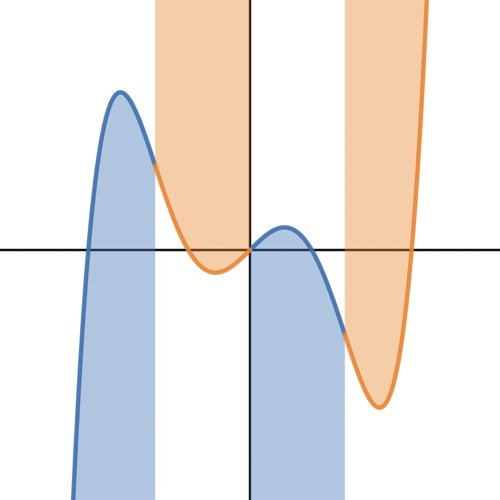
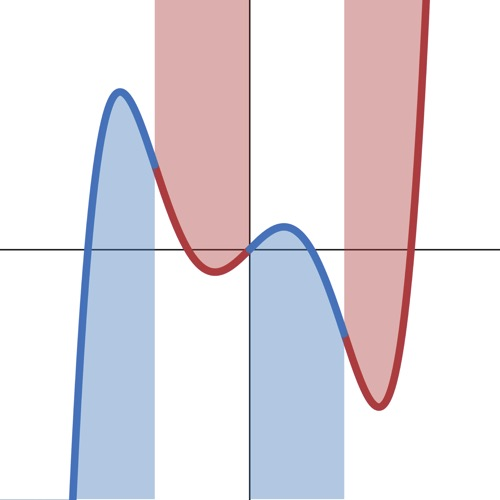
Updated 251

Changed region(s): [[0.0, 0.0, 1.0, 1.0]]

diff --git a/teaching/uo/251/notes/11-optimization/index.html b/teaching/uo/251/notes/11-optimization/index.html
@@ -50,7 +50,7 @@
 
 !begin-text-block
 	
-	!iframe https://www.desmos.com/calculator/qwyqv9xbdk
+	!desmos extrema
 	
 	Let&#x2019;s examine this graph. There are three ways local extrema occur here: first, at places like $x = \pm .345$, where the derivative is zero and the tangent line to the graph is therefore horizontal. This is the same idea as the midterm problem about height being maximized when velocity is zero.
 	
@@ -86,7 +86,7 @@
 	
 	All local extrema occur at critical points, but not all critical points are extrema. For example, $g(x) = x^3$ has $g'(x) = 3x^2$, so $x = 0$ is a critical point, but that is neither a local maximum nor minimum of $g$: instead, it&#x2019;s something called a <dfn>saddle point</dfn>.
 	
-	!iframe https://www.desmos.com/calculator/k1jbfqaooy
+	!desmos saddle-point
 	
 !end-text-block
 
@@ -96,7 +96,7 @@
 	
 	critical points
 	
-	Find the critical points of $f(x) = x^5 - 3x^3 + x$ on $[-2, 1.5]$.
+	Find the critical points of $\displaystyle f(x) = x^5 - 3x^3 + x$ on $\displaystyle [-2, 1.5]$.
 	
 	Let&#x2019;s start by differentiating: $f'(x) = 5x^4 - 9x^2 + 1$. The first kind of critical point is when $f'(x) = 0$, so let&#x2019;s solve that equation. It might have been a little while since you&#x2019;ve solved something quite like this, but the idea is that when there are no $x^3$ or $x$ terms, we can use the quadratic formula on $x^2$:
 	
@@ -113,21 +113,21 @@
 	
 	At the moment, we don&#x2019;t have a way of differentiating maxima from minima from saddle points. Let&#x2019;s look at all the critical values and select the largest and smallest &mdash; these are good candidates for the global max and min.
 	
-	$f(-2) = -10$
+	$\displaystyle f(-2) = -10$
 	
-	$f(-1.297) = 1.578$
+	$\displaystyle f(-1.297) = 1.578$
 	
-	$f(-.345) = -.227$
+	$\displaystyle f(-.345) = -.227$
 	
-	$f(.345) = .227$
+	$\displaystyle f(.345) = .227$
 	
-	$f(1.297) = -1.578$
+	$\displaystyle f(1.297) = -1.578$
 	
-	$f(1.5) = 1.031$.
+	$\displaystyle f(1.5) = 1.031$.
 	
 	Assuming the function has a global max and min, the max is at $x = -1.297$ and the min is at $x = -2$. Looking at the graph backs this up.
 	
-	!iframe https://www.desmos.com/calculator/h7feo4eowi
+	!desmos critical-points
 	
 !end-example
 
@@ -180,11 +180,11 @@
 	
 	This is a fine start, but we really ought to know whether critical points are local minima, maxima, or saddle points. The way we&#x2019;ll get at this is via the second derivative: in the same way that the first derivative measures slope, the second one measures something called <dfn>concavity</dfn>. Remember that $f''(x)$ is just the derivative &mdash; and therefore the rate of change &mdash; of $f'(x)$. If $f''(x) > 0$, then the slope is increasing, and if $f''(x) < 0$, the slope is decreasing. Visually, this looks like the curve of the graph opening upward or downward.
 	
-	!iframe https://www.desmos.com/calculator/gauzdhyayv
+	!desmos concavity
 	
-	Here, the orange parts of the graph are <dfn>concave up</dfn>, and the blue are <dfn>concave down</dfn>, corresponding to the places where $f''(x)$ is positive and negative, respectively.
+	Here, the red parts of the graph are <dfn>concave up</dfn>, and the blue are <dfn>concave down</dfn>, corresponding to the places where $f''(x)$ is positive and negative, respectively. Click the empty circle next to $f''(x)$ in the Desmos shelf to plot it.
 	
-	Suppose $x = a$ is the type of critical point with $f'(a) = 0$. If $f''(a) < 0$, then the graph is concave down &mdash; in other words, it&#x2019;s curving down, so $x = a$ must be a local maximum. If $f''(a) > 0$, then $x = a$ must be a local minimum. If $f''(a) = 0$, we don&#x2019;t know for sure what&#x2019;s going on, but still, this process is very useful for classifying critical . This is called the <dfn>second derivative test</dfn>, and it lets us classify most extrema.
+	Suppose $x = a$ is the type of critical point with $f'(a) = 0$. If $f''(a) < 0$, then the graph is concave down &mdash; in other words, it&#x2019;s curving down, so $x = a$ must be a local maximum. If $f''(a) > 0$, then $x = a$ must be a local minimum. If $f''(a) = 0$, we don&#x2019;t know for sure what&#x2019;s going on, but still, this process is very useful for classifying critical points. This is called the <dfn>second derivative test</dfn>, and it lets us classify most extrema.
 	
 !end-text-block
 
@@ -194,17 +194,23 @@
 	
 	critical points
 	
-	Classify the critical points of $f(x) = x^5 - 3x^3 + x$ on $[-2, 1.5]$ using the second derivative test.
+	Classify the critical points of $\displaystyle f(x) = x^5 - 3x^3 + x$ on $\displaystyle [-2, 1.5]$ using the second derivative test.
 	
-	The second derivative is $\frac{d}{dx}[5x^4 - 9x^2 + 1] = 20x^3 - 18x$. The second derivative test only works on the critical points where $f'(x) = 0$, so only $x = \pm 1.297$ and $x = \pm .345$. Plugging in our critical points from before, we have
+	The second derivative is
 	
-	$f''(-1.297) = -20.291$
+	$$
+		\frac{d}{dx}[5x^4 - 9x^2 + 1] = 20x^3 - 18x.
+	$$
 	
-	$f''(-.345) = 5.389$
+	The second derivative test only works on the critical points where $f'(x) = 0$, so only $x = \pm 1.297$ and $x = \pm .345$. Plugging in our critical points from before, we have
 	
-	$f''(.345) = -5.389$
+	$\displaystyle f''(-1.297) = -20.291$
 	
-	$f''(1.297) = 20.291$
+	$\displaystyle f''(-.345) = 5.389$
+	
+	$\displaystyle f''(.345) = -5.389$
+	
+	$\displaystyle f''(1.297) = 20.291$
 	
 	Therefore, the first and third are local maxima and the second and fourth are local minima.
 	
@@ -232,7 +238,7 @@
 
 !begin-text-block
 	
-	At critical points, a function often switches from increasing to decreasing or vice versa (not always &mdash; remember that saddle points exist). Similarly, at inflection points, functions switch from an increasing <em>derivative</em> to a decreasing one, or vice versa. You&#x2019;ll hear the term inflection point commonly used in the media &mdash; of late, it&#x2019;s often used to describe COVID waves. The inflection point on the beginning of a wave is the point where the derivative stops increasing and starts to decrease. Remember that we can interpret the derivative as approximately the change in the function value when the input changes by $1$: if $f(t)$ is the number of new COVID cases on day $t$, then $f'(t)$ is approximately the amount that that number increases between days $t$ and $t + 1$. Therefore, the inflection point on the front side of a wave is the day on which the number of new patients jumps up by more than it jumped up the day before.
+	At critical points, a function often switches from increasing to decreasing or vice versa (not always &mdash; remember that saddle points exist). Similarly, at inflection points, functions switch from an increasing <em>derivative</em> to a decreasing one, or vice versa. You&#x2019;ll hear the term inflection point commonly used in the media &mdash; of late, it&#x2019;s often used to describe waves of case numbers for diseases. The inflection point on the beginning of a wave is the point where the derivative stops increasing and starts to decrease. Remember that we can interpret the derivative as approximately the change in the function value when the input changes by $1$: if $f(t)$ is the number of new cases on day $t$, then $f'(t)$ is approximately the amount that that number increases between days $t$ and $t + 1$. Therefore, the inflection point on the front side of a wave is the first day on which the number of new cases jumps up by more than it jumped up the day before.
 	
 	Back to optimization. Thankfully, even if the second derivative test is inconclusive (i.e. $f''(x) = 0$), we can examine the first derivative more closely to tell between maxima and minima.
 	
@@ -254,15 +260,21 @@
 	
 	critical points
 	
-	Find and classify the extrema of $g(t) = t^6 - t^4$.
+	Find and classify the extrema of $\displaystyle g(t) = t^6 - t^4$.
 	
-	To find candidates for extrema, we first find the critical points. That means $g'(t) = 6t^5 - 4t^3 = 0$, so $2t^3(3t^2 - 2)$. Therefore, we have $t = 0$ and $t = \pm \sqrt{\frac{2}{3}}$. There are no places where the derivative is undefined and the function is defined on all real numbers, so there is no boundary to take critical points from.
+	To find candidates for extrema, we first find the critical points. That means $g'(t) = 6t^5 - 4t^3 = 0$, so $2t^3(3t^2 - 2)$. Therefore, we have $t = 0$ and $t = \pm \sqrt{2 / 3}$. There are no places where the derivative is undefined and the function is defined on all real numbers, so there is no boundary to take critical points from.
 	
-	The simplest way to classify critical points is with the second derivative test. We have $g''(t) = 30t^4 - 12t^2$, so $g''(0) = 0$ and $g\left(\sqrt{\frac{2}{3}}\right) = \left(-\sqrt{\frac{2}{3}}\right) = \frac{16}{3}$. We can immediately classify those second two as local minima, since the graph is concave up there. On the other hand, the second derivative test is inconclusive at $t = 0$.
+	The simplest way to classify critical points is with the second derivative test. We have $g''(t) = 30t^4 - 12t^2$, so $g''(0) = 0$ and
 	
-	In order to figure out what&#x2019;s going on there, we can use the first derivative test. Since $\sqrt{\frac{2}{3}} \approx .816$, we just need to pick points in between $0$ and $.816$ and between $0$ and $-.816$. Let&#x2019;s just take $\pm .5$. Evaluating $g'$ there, we have $g'(-.5) = .3125$ and $g'(.5) = -.3125$. Since the derivative is positive before $t = 0$ and negative after, $t = 0$ must be a local maximum of $g$.
+	$$
+		g\left(\sqrt{\frac{2}{3}}\right) = \left(-\sqrt{\frac{2}{3}}\right) = \frac{16}{3}.
+	$$
 	
-	!iframe https://www.desmos.com/calculator/oi6yvbmoc0
+	We can immediately classify those second two as local minima, since the graph is concave up there. On the other hand, the second derivative test is inconclusive at $t = 0$.
+	
+	In order to figure out what&#x2019;s going on there, we can use the first derivative test. Since $\sqrt{2/3} \approx .816$, we just need to pick points in between $0$ and $.816$ and between $0$ and $-.816$. Let&#x2019;s just take $\pm .5$. Evaluating $g'$ there, we have $g'(-.5) = .3125$ and $g'(.5) = -.3125$. Since the derivative is positive before $t = 0$ and negative after, $t = 0$ must be a local maximum of $g$.
+	
+	!desmos first-derivative-test
 	
 !end-example
 
@@ -270,7 +282,7 @@
 	
 	critical points
 	
-	Find and classify the extrema of $h(x) = x^5 - 2x^3$ on $[-2, \sqrt{2}]$.
+	Find and classify the extrema of $h(x) = x^5 - 2x^3$ on $\displaystyle \left[-2, \sqrt{2}\right]$.
 	
 !end-exercise
 

diff --git a/teaching/uo/251/notes/11-optimization/scripts/11-optimization.js b/teaching/uo/251/notes/11-optimization/scripts/11-optimization.js
@@ -1,0 +1,81 @@
+!function()
+{
+	Page.Load.get_desmos_data = () =>
+	{
+		const data =
+		{
+			"extrema":
+			{
+				bounds: {left: -3.5, right: 3.5, bottom: -3.5, top: 3.5},
+				
+				expressions:
+				[
+					{latex: String.raw`f(x) = x^5 - 3x^3 + x \{-1.5 \leq x \leq 1.5\}`, color: DESMOS_PURPLE, secret: true},
+					{latex: String.raw`(-3, 0), (-2, 2), (-1.5, f(-1.5))`, secret: true, points: false, lines: true, color: DESMOS_PURPLE},
+					{latex: String.raw`(-3, 0), (-1.5, f(-1.5)), (-.345, f(-.345)), (1.297, f(1.297))`, secret: true, color: DESMOS_BLUE},
+					{latex: String.raw`(-2, 2), (-1.297, f(-1.297)), (.345, f(.345)), (1.5, f(1.5))`, secret: true, color: DESMOS_RED},
+				]
+			},
+			
+			
+			
+			"saddle-point":
+			{
+				bounds: {left: -3, right: 3, bottom: -3, top: 3},
+				
+				expressions:
+				[
+					{latex: String.raw`f(x) = x^3`, color: DESMOS_PURPLE},
+					{latex: String.raw`(0, 0)`, color: DESMOS_BLUE},
+				]
+			},
+			
+			
+			
+			"critical-points":
+			{
+				bounds: {left: -2.5, right: 2.5, bottom: -15, top: 10},
+				
+				expressions:
+				[
+					{latex: String.raw`f(x) = x^5 - 3x^3 + x \left\{-2 \leq x \leq 1.5\right\}`, color: DESMOS_PURPLE},
+				]
+			},
+			
+			
+			
+			"concavity":
+			{
+				bounds: {left: -2.5, right: 2.5, bottom: -2.5, top: 2.5},
+				
+				expressions:
+				[
+					{latex: String.raw`f(x) = x^5 - 3x^3 + x`, color: DESMOS_PURPLE, hidden: true, secret: true},
+					{latex: String.raw`f(x)`, color: DESMOS_PURPLE},
+					{latex: String.raw`f''(x)`, color: DESMOS_GREEN, hidden: true},
+					
+					{latex: String.raw`y \geq f(x) \{-.949 \leq x \leq 0, .949 \leq x\}`, color: DESMOS_RED, secret: true},
+					{latex: String.raw`y \leq f(x) \{x \leq -.949, 0 \leq x \leq .949\}`, color: DESMOS_BLUE, secret: true},
+				]
+			},
+			
+			
+			
+			"first-derivative-test":
+			{
+				bounds: {left: -2.5, right: 2.5, bottom: -2.5, top: 2.5},
+				
+				expressions:
+				[
+					{latex: String.raw`g(t) = t^6 - t^4`, color: DESMOS_PURPLE},
+				]
+			}
+		};
+		
+		return data;
+	}
+	
+	Page.Load.create_desmos_graphs();
+	
+	Page.show();
+}()

diff --git a/teaching/uo/251/notes/11-optimization/scripts/11-optimization.min.js b/teaching/uo/251/notes/11-optimization/scripts/11-optimization.min.js
@@ -1,0 +1,1 @@
+Page.Load.get_desmos_data=()=>({extrema:{bounds:{left:-3.5,right:3.5,bottom:-3.5,top:3.5},expressions:[{latex:String.raw`f(x) = x^5 - 3x^3 + x \{-1.5 \leq x \leq 1.5\}`,color:DESMOS_PURPLE,secret:!0},{latex:String.raw`(-3, 0), (-2, 2), (-1.5, f(-1.5))`,secret:!0,points:!1,lines:!0,color:DESMOS_PURPLE},{latex:String.raw`(-3, 0), (-1.5, f(-1.5)), (-.345, f(-.345)), (1.297, f(1.297))`,secret:!0,color:DESMOS_BLUE},{latex:String.raw`(-2, 2), (-1.297, f(-1.297)), (.345, f(.345)), (1.5, f(1.5))`,secret:!0,color:DESMOS_RED}]},"saddle-point":{bounds:{left:-3,right:3,bottom:-3,top:3},expressions:[{latex:String.raw`f(x) = x^3`,color:DESMOS_PURPLE},{latex:String.raw`(0, 0)`,color:DESMOS_BLUE}]},"critical-points":{bounds:{left:-2.5,right:2.5,bottom:-15,top:10},expressions:[{latex:String.raw`f(x) = x^5 - 3x^3 + x \left\{-2 \leq x \leq 1.5\right\}`,color:DESMOS_PURPLE}]},concavity:{bounds:{left:-2.5,right:2.5,bottom:-2.5,top:2.5},expressions:[{latex:String.raw`f(x) = x^5 - 3x^3 + x`,color:DESMOS_PURPLE,hidden:!0,secret:!0},{latex:String.raw`f(x)`,color:DESMOS_PURPLE},{latex:String.raw`f''(x)`,color:DESMOS_GREEN,hidden:!0},{latex:String.raw`y \geq f(x) \{-.949 \leq x \leq 0, .949 \leq x\}`,color:DESMOS_RED,secret:!0},{latex:String.raw`y \leq f(x) \{x \leq -.949, 0 \leq x \leq .949\}`,color:DESMOS_BLUE,secret:!0}]},"first-derivative-test":{bounds:{left:-2.5,right:2.5,bottom:-2.5,top:2.5},expressions:[{latex:String.raw`g(t) = t^6 - t^4`,color:DESMOS_PURPLE}]}}),Page.Load.create_desmos_graphs(),Page.show();
